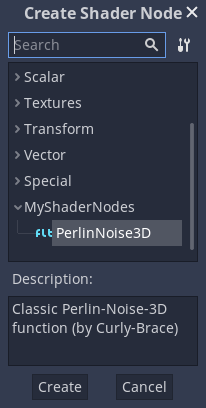
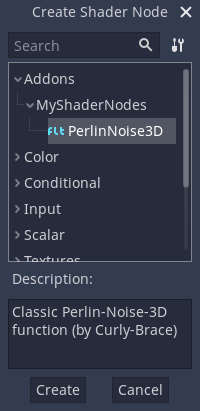
Replaced one screenshot to actual version in visual_shader_plugins.rst

diff --git a/tutorials/plugins/editor/visual_shader_plugins.rst b/tutorials/plugins/editor/visual_shader_plugins.rst
@@ -194,7 +194,7 @@ all you need to initialize your plugin.
     func _get_code(input_vars, output_vars, mode, type):
         return output_vars[0] + " = cnoise(vec3((%s.xy + %s.xy) * %s, %s)) * 0.5 + 0.5;" % [input_vars[0], input_vars[1], input_vars[2], input_vars[3]]
 
-Save it and open the Visual Shader. You should see your new node type within the member's dialog (if you can't see your new node, try restarting the editor):
+Save it and open the Visual Shader. You should see your new node type within the member's dialog under the Addons category (if you can't see your new node, try restarting the editor):
 
 .. image:: img/visual_shader_plugins_result1.png
 
